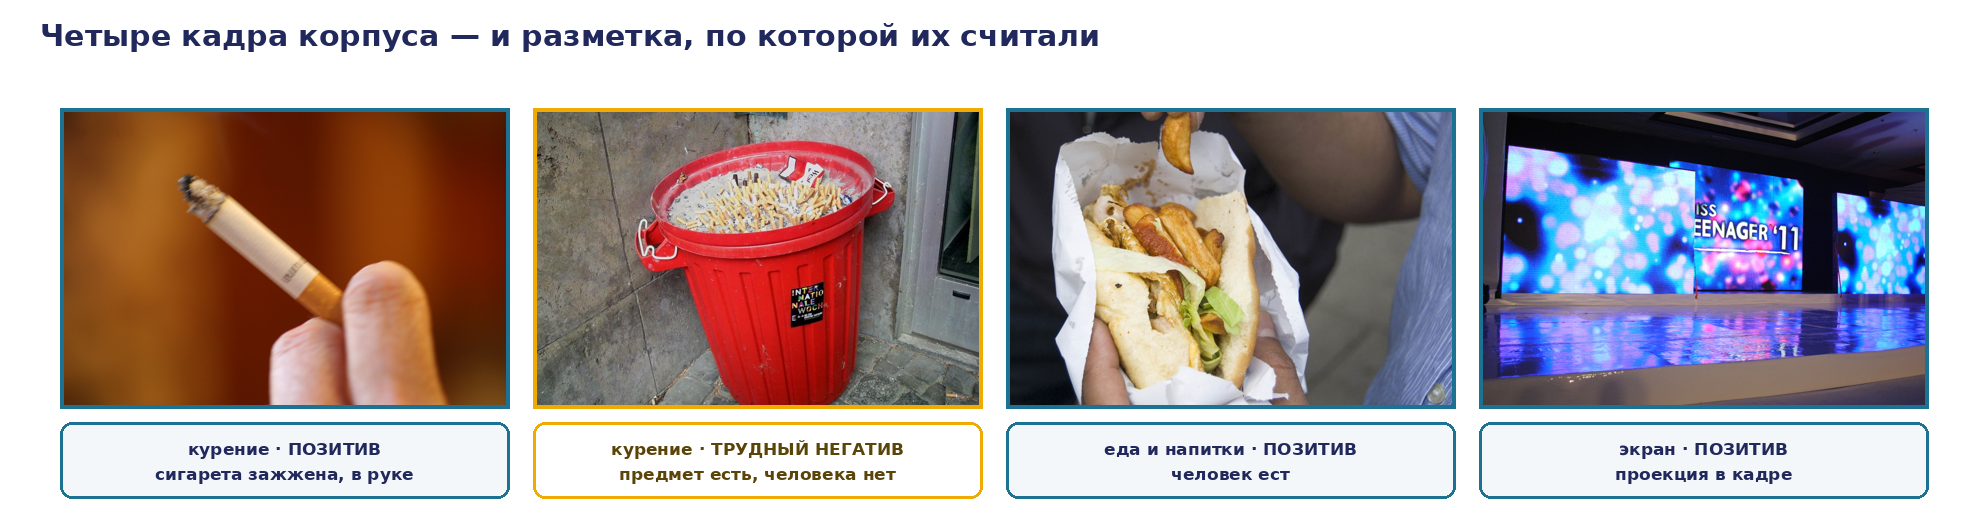
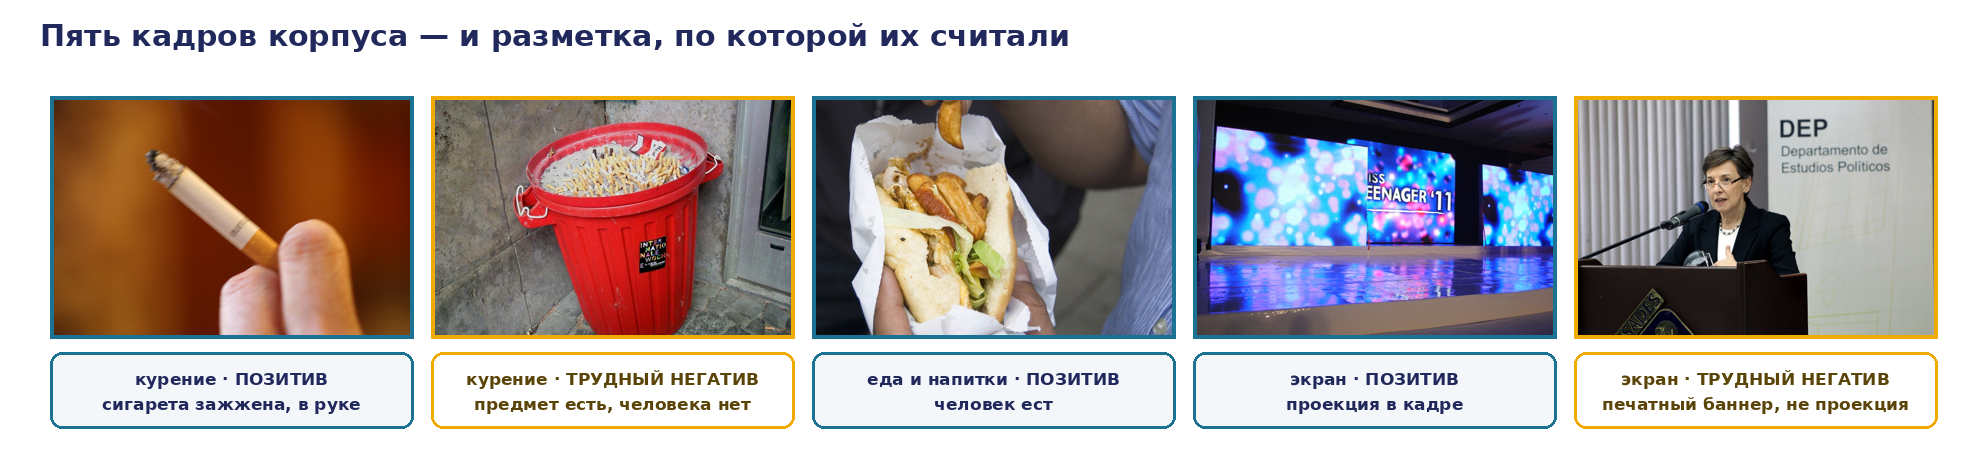
#351 С12 кейс C: числа на замер 327 кадров, вывод перестроен на два случая обмана суммы
Корпус еды и экрана вырос втрое, база сравнения сдвинулась, и одна находка
потребовала переписать вывод, а не ячейку.

**Вывод кейса перестроен (n47, n53).** У суммы ошибок теперь ДВА независимых
случая, и прячут они разное:
- курение — КАКАЯ это ошибка: 17+1=18 против 25, сумма за сравнение, но 17
  пропусков невозвратны;
- еда — РАБОТАЕТ ЛИ метод: 20+0=20 против 39, перевес вдвое, и при этом
  не найдено больше половины запрещённых кадров.
Один случай читался бы как особенность класса, два — как свойство меры.

**n47: колонка сравнения переведена на СВОЙ порог** (0,01/0,01/0,03). Прежняя
«@0,3» была заглушкой на месте пробела замера — раздельные доли на лучшем
пороге посчитаны теперь для всех трёх классов, пробел закрыт.

**n46: корпус 134/129/117, доли 30,6/29,5/41,0.** Вырожденный режим перечитан:
«всегда нет» даёт 69,4/70,5/59,0% верных ответов — на прежнем малом корпусе еды
та же пустота давала 88%. Фигура — пять панелей вместо четырёх: добавлен второй
трудный негатив, печатный баннер, принятый за проекцию. Два трудных негатива
стоят рядом намеренно — один ломает определение нехваткой, другой похожестью.

**n48:** новые полосы похожести по трём классам; инверсия максимумов на экране
на объёме СНЯЛАСЬ (0,096 > 0,023), и это сказано вслух — наблюдение не пережило
роста выборки, а вывод «сигнала нет» подтвердился и стал прочнее (2 из 48
против 0 у вырожденного «всегда нет»).

**n50:** 57 чужих кадров вместо 22; хэш 18–26 против наших 26 — диапазоны
[…]

diff --git a/library/seminars/sem-12/rendered/make_figures_C.py b/library/seminars/sem-12/rendered/make_figures_C.py
@@ -14,17 +14,35 @@
                                   кейс строит); серым, за контуром —
                                   публикация/отложено до человека.
 
-    case-c-korpus-primery.png     n46 — четыре НАСТОЯЩИХ кадра корпуса со
-                                  своей разметкой: позитив и трудный негатив
-                                  курения, позитив еды, позитив экрана.
+    case-c-korpus-primery.png     n46 — пять НАСТОЯЩИХ кадров корпуса со своей
+                                  разметкой: позитив и трудный негатив курения,
+                                  позитив еды, позитив и трудный негатив экрана.
+                                  Два трудных негатива стоят рядом намеренно:
+                                  они разной природы — у курения предмет есть,
+                                  а человека нет; у экрана предмет похож, а
+                                  класс другой (печать, не проекция).
 
     case-c-vedro-okurkov.png      n41 — тот самый кадр сцены: урна, полная
                                   окурков, без единого человека. Модель
                                   отвечает `smoking: true`.
 
-Снимки — Open Images V7, все четыре под CC BY 2.0, авторы названы ниже в
-`PHOTOS`. Людей, которых можно узнать в лицо, ни на одном из четырёх нет —
-отбор сознательный: занятие публикуется открыто. Подпись автора на кадр НЕ
+Снимки — Open Images V7, все под CC BY 2.0, авторы названы ниже в `PHOTOS`.
+
+**Про лица — решение круга 4, оно сменило прежнее.** Первые четыре кадра
+отбирались так, чтобы на них не было узнаваемых лиц. Трудный негатив экрана
+такого варианта не имеет вовсе: все пять кандидатов `SLIDES_HARDNEG` — это
+печатная поверхность ПОЗАДИ ГОВОРЯЩЕГО, и composition «текст на вертикальной
+поверхности за человеком» и есть то, что путает модель; вырезав человека, мы
+показали бы не тот кадр, который мерили. Взят `1ff27a55871e30db` — взрослый
+докладчик за трибуной на публичном мероприятии, CC BY 2.0. Это согласуется с
+деком занятия: `case-b-light-hard.png` Кейса B давно показывает аудиторию с
+узнаваемыми лицами из того же корпуса.
+
+**Один кандидат исключён отдельно и не по композиции:** `24955fd68bc70264` —
+школьный постер, на котором напечатаны имя, класс и школа автора, а в кадре,
+по всем признакам, несовершеннолетний. Несовершеннолетние исключены из самого
+корпуса (`corpus.py`, `*_MINOR_EXCLUDED`), и на кадр деки такой снимок не идёт
+тем более. Подпись автора на кадр НЕ
 идёт (`trebovaniya-k-soderzhaniyu-forma.md` §5.12 — источники фотографий на
 слайде не подписывать); атрибуция CC BY стоит в заметках слайдов n41/n46,
 которые публикуются вместе с деком.
@@ -54,6 +72,7 @@ PHOTOS = {
     "193d76cd49bb8a7c": ("C-smoking", "Erich Ferdinand", "CC BY 2.0"),
     "159de001bfb786cc": ("C-fooddrink", "Cristiano Betta", "CC BY 2.0"),
     "0cd992ac5ca38878": ("C-slides", "Josué Goge", "CC BY 2.0"),
+    "1ff27a55871e30db": ("C-slides", "Alexander Bonilla", "CC BY 2.0"),
 }
 
 
@@ -101,15 +120,17 @@ def case_c_korpus_primery():
     """n46 — корпус предъявлен кадрами, а не только числом. Четыре настоящих
     снимка среза Open Images V7 с той разметкой, по которой их считали.
 
-    Второй панелью стоит трудный негатив курения — предмет в кадре есть,
-    человека нет. Определение у1' такой кадр исключает, и ровно на таких
-    кадрах мультимодальная модель даёт 24 из своих 25 ложных тревог."""
-    im = Image.new("RGB", (1988, 520), W)
+    Два трудных негатива стоят рядом намеренно, и они разной природы.
+    У курения (панель 2) предмет есть, а человека нет — определение у1' такой
+    кадр исключает, и на таких кадрах модель даёт 24 из своих 25 ложных тревог.
+    У экрана (панель 5) предмет похож, а класс другой: печатный баннер, не
+    проекция — на пяти таких кадрах модель ошибается в четырёх."""
+    im = Image.new("RGB", (1988, 470), W)
     d = ImageDraw.Draw(im)
-    head(d, "Четыре кадра корпуса — и разметка, по которой их считали", sz=30)
+    head(d, "Пять кадров корпуса — и разметка, по которой их считали", sz=30)
 
-    pw, ph = 449, 300
-    gy, gap, x0 = 108, 24, 60
+    pw, ph = 363, 242
+    gy, gap, x0 = 96, 18, 50
     panels = [
         ("2f75c267eaae09c1", LIGHT, SURF, DEEP,
          ["курение · ПОЗИТИВ", "сигарета зажжена, в руке"]),
@@ -119,6 +140,8 @@ def case_c_korpus_primery():
          ["еда и напитки · ПОЗИТИВ", "человек ест"]),
         ("0cd992ac5ca38878", LIGHT, SURF, DEEP,
          ["экран · ПОЗИТИВ", "проекция в кадре"]),
+        ("1ff27a55871e30db", GOLD, W, GOLDINK,
+         ["экран · ТРУДНЫЙ НЕГАТИВ", "печатный баннер, не проекция"]),
     ]
     for n, (pid, frame, fill, tc, caption) in enumerate(panels):
         x = x0 + n * (pw + gap)

diff --git a/library/seminars/sem-12/slides/n47-svod-zamera.md b/library/seminars/sem-12/slides/n47-svod-zamera.md
@@ -2,14 +2,14 @@
 id: n47
 type: measured_outcome_table
 duration_min: 2.0
-assertion: "Две меры раздельно: сколько запрещённых кадров метод поймал и сколько чистых пометил зря"
-learning_goal: "С2 такт 2. Правка владельца круга 3: метрики РАЗВЕДЕНЫ на две таблицы, у всех методов одни единицы (кадры), база класса стоит в заголовке строки. Сумма ошибок не считается нигде — плашка показывает, почему она выбирает не тот инструмент."
+assertion: "Две меры раздельно — и два разных способа, которыми их сумма обманывает: на курении прячет цену ошибки, на еде прячет отсутствие работы"
+learning_goal: "С2 такт 2. Метрики разведены на две таблицы, у всех методов одни единицы (кадры), база класса в заголовке строки. Круг 4: сравнение показано на СВОЁМ пороге (0,01/0,01/0,03) — раздельные доли появились в замере, прежняя колонка «@0,3» была заглушкой на месте пробела. Вывод перестроен: у суммы ошибок теперь ДВА независимых случая обмана, на курении и на еде, и прячут они разное."
 visual:
   pattern: measured_outcome_table
   primary: >
-    Строка-мера, две таблицы в одних единицах (пойманные позитивы и
-    ложные тревоги, база класса в заголовке строки), плашка асимметрии
-    цены.
+    Две таблицы в одних единицах (пойманные позитивы и ложные тревоги,
+    база класса в заголовке строки), плашка про чтение нулей, плашка с
+    двумя случаями обмана суммы.
   backup: >
     Все числа — stend/zamery-C/README.md и raw/analyze_output.txt
     (tp/fn/fp по трём классам). Разложение лучшего порога на курении —
@@ -24,30 +24,34 @@ visual:
 
 ## Visual
 
-| Поймано запрещённых — из позитивов | Детектор | Мультимодальная | Сравнение, порог 0,3 |
+| Поймано запрещённых — из позитивов | Детектор | Мультимодальная | Сравнение, свой порог |
 |---|---|---|---|
-| Курение · 41 | **0** | 41 | 5 |
-| Еда и напитки · 9 | 5 | 9 | 0 |
-| Экран · 22 | 8 | 21 | 0 |
+| Курение · 41 | **0** | 41 | 24 |
+| Еда и напитки · 38 | 27 | 38 | 18 |
+| Экран · 48 | 16 | 46 | **2** |
 
-| Помечено зря — из негативов | Детектор | Мультимодальная | Сравнение, порог 0,3 |
+| Помечено зря — из негативов | Детектор | Мультимодальная | Сравнение, свой порог |
 |---|---|---|---|
-| Курение · 93 | 0 | 25 (26,9%) | 0 |
-| Еда и напитки · 65 | 27 (41,5%) | 18 (27,7%) | 0 |
-| Экран · 60 | 18 (30,0%) | 29 (48,3%) | 0 |
+| Курение · 93 | 0 | 25 (26,9%) | 1 (1,1%) |
+| Еда и напитки · 91 | 30 (33,0%) | 39 (42,9%) | 0 |
+| Экран · 69 | 20 (29,0%) | 36 (52,2%) | 0 |
 
-> **Нули последнего столбца в обеих таблицах — одно и то же событие.** При пороге 0,3 сравнение почти ничего не находит, оттого у него и нет тревог. Молчащий метод тревог не поднимает никогда.
+> **Нули справа читаются только с левой таблицей:** сравнение не тревожит потому, что не находит — 2 из 48 на экране.
 
-> **Две меры не складывают.** Курение, лучший порог: у сравнения 17 пропусков + 1 тревога = 18 ошибок, у мультимодальной 25. По сумме выигрывает сравнение. **17 пропусков невозвратны** — кадры уйдут в публикацию; **25 тревог поправимы** — 25 минут человека.
+> **Сумма ошибок прячет две разные вещи и оба раза выбирает не тот инструмент.**
+> **Курение — какая это ошибка.** У сравнения 17 + 1 = **18** против **25**. Сумма за сравнение, но 17 пропусков невозвратны, а 25 тревог — минуты человека.
+> **Еда — работает ли метод.** У сравнения 20 + 0 = **20** против **39**: перевес вдвое, и при этом 20 пропущенных из 38.
 
 ## Speaker notes
 
-Две меры разведены намеренно, и читать их стоит порознь. Левая таблица отвечает, сколько запрещённых кадров метод нашёл; правая — сколько чистых он пометил зря. Единицы у обеих одни, кадры, и база класса стоит рядом в заголовке строки, чтобы число не висело без знаменателя.
+Две меры разведены намеренно, и читать их стоит порознь. Левая таблица отвечает, сколько запрещённых кадров подход нашёл; правая — сколько чистых он пометил зря. Единица одна, кадры, и база класса стоит рядом в заголовке строки.
 
-Детектор берёт пять из девяти кадров еды, восемь из двадцати двух с экраном и ровно ноль из сорока одного с курением. Ноль здесь особого рода: в словаре из восьмидесяти бытовых классов понятия «сигарета» нет, и значит он повторится на вдвое большем корпусе и при любом пороге. Зато там, где класс в словаре есть, детектор не стоит ничего — и на еде даёт двадцать семь ложных тревог из шестидесяти пяти, то есть платит за дешевизну точностью.
+Сравнение с описанием показано на пороге, померенном на этом же корпусе: одна сотая для курения и еды, три сотых для экрана. На общепринятых порядках оно не находит почти ничего вовсе, и разбор этого — следующим кадром.
 
-Мультимодальная модель не пропускает почти ничего нигде — сорок один из сорока одного, девять из девяти, двадцать один из двадцати двух. Платит она правой таблицей: от двадцати семи до сорока восьми процентов негативов помечены зря, и на экране это почти половина чистых кадров.
+Детектор берёт двадцать семь кадров еды из тридцати восьми, шестнадцать с экраном из сорока восьми и ровно ноль из сорока одного с курением. Ноль здесь особого рода: в словаре из восьмидесяти бытовых классов понятия «сигарета» нет, и значит он повторится на вдвое большем корпусе и при любом пороге. На еде он оказался заметно лучше, чем показывала прежняя малая выборка, — не потому, что модель изменилась, а потому, что девять позитивов давали шумную и слишком мрачную оценку.
 
-Нули сравнения с описанием в обеих таблицах к модели отношения не имеют. Порог 0,3 взят из чужой задачи, и на нём метод отвечает «нет» почти всегда — отсюда и ни одной находки, и ни одной тревоги разом. Ноль детектора на курении устроен иначе: там нет самого класса в словаре, и он повторится при любом пороге. На пороге, померенном на этом корпусе, у сравнения картина другая, и следующий кадр разбирает, почему.
+Мультимодальная модель не пропускает почти ничего нигде и платит правой таблицей: от двадцати семи до пятидесяти двух процентов негативов помечены зря. На экране это больше половины чистых кадров.
 
-Последняя плашка — главная ловушка этого свода. Если сложить обе меры в одно число, сравнение с описанием обыгрывает мультимодальную модель: восемнадцать ошибок против двадцати пяти. Вывод неверный. Все восемнадцать — это семнадцать пропусков, то есть семнадцать запрещённых кадров в публикации, откуда их не вернуть. Все двадцать пять — лишние флаги: кадр полежит, человек посмотрит минуту и снимет флаг. Мера обязана совпадать с ценой ошибки в деле; сумма здесь выбирает инструмент за нас и выбирает неверно.
+Нули сравнения в правой таблице выглядят безупречно и безупречными не являются. На экране метод поднял ноль тревог и нашёл два кадра из сорока восьми — то есть почти не срабатывал вообще. Ложных тревог не бывает у того, кто молчит, и правую таблицу без левой читать нельзя.
+
+Последняя плашка — главное этого свода, и теперь в ней два случая, а не один. На курении сумма ошибок прячет, **какая** это ошибка: восемнадцать против двадцати пяти, сравнение якобы выигрывает, но все восемнадцать — это семнадцать кадров, ушедших в публикацию без возврата, а двадцать пять у мультимодальной модели — просто минуты человека. На еде сумма прячет другое — **работает ли метод вообще**: двадцать против тридцати девяти, перевес вдвое, и при этом сравнение не находит больше половины запрещённых кадров. Одно и то же действие, сложить две ошибки в одно число, дважды привело к неверному выбору, и каждый раз по своей причине. Мера обязана совпадать с ценой ошибки в деле; сумма не совпадает с ней никогда.

diff --git a/library/seminars/sem-12/slides/n48-razbor-siglip.md b/library/seminars/sem-12/slides/n48-razbor-siglip.md
@@ -2,13 +2,13 @@
 id: n48
 type: content
 duration_min: 1.5
-assertion: "На порогах 0,3/0,5/0,7 метод пропускает почти всё; лучший порог на этом корпусе — 0,01–0,03"
+assertion: "На порогах 0,3/0,5/0,7 метод пропускает почти всё; лучший порог на этом корпусе — 0,01–0,03, и на экране даже он не помогает"
 learning_goal: "Полоса неопределённости SigLIP (К4-методика, мерена заново на этом корпусе): порог — решение, а не свойство модели. Экран — результат против предсказания (сигнала почти нет). §8.11: лёгкий и трудный случай курения оказались наоборот."
 visual:
   pattern: content
   primary: >
-    Таблица порогов и пропуска по трём классам. Плашка полосы похожести.
-    Плашка лёгкого/трудного случая наоборот.
+    Таблица порогов, пропуска и полос похожести по трём классам. Плашка
+    про масштаб сигмоидных чисел. Плашка про отсутствие сигнала на экране.
   backup: >
     Числа — stend/zamery-C/README.md «SigLIP на импортированных порогах».
     §8.11 (tools/seminar-production/README.md) — замер, вернувший ноль,
@@ -25,20 +25,22 @@ visual:
 
 | Класс | Пропущено @ 0,3 / 0,5 / 0,7 | Лучший порог здесь | Полоса похожести: позитив / негатив (мин/медиана/макс) |
 |---|---|---|---|
-| Курение | 87,8% / 97,6% / 97,6% | 0,01 | 0,000/0,014/0,756 — 0,000/0,000/0,036 |
-| Еда/напитки | 100% на всех трёх | 0,01 | 0,000/0,002/0,074 — 0,000/0,000/0,000 |
-| Экран | 100% на всех трёх | 0,03 | 0,000/0,000/**0,002** — 0,000/0,000/**0,023** |
+| Курение | 87,8% / 97,6% / 97,6% | 0,01 | 0,000/0,014/0,755 — 0,000/0,000/0,035 |
+| Еда/напитки | 97,4% / 100% / 100% | 0,01 | 0,000/0,010/0,346 — 0,000/0,000/0,001 |
+| Экран | 100% на всех трёх | 0,03 | 0,000/0,000/**0,096** — 0,000/0,000/**0,023** |
 
-> **Экран — результат против предсказания.** Максимум негатива (0,023) выше максимума позитива (0,002): полосы перевёрнуты. Сигнала почти нет, и лучший порог всё равно даёт 22 ошибки из 82 (26,8%).
+> **Порог в сто раз ниже привычного — так устроена сама модель.** `SigLIP` обучен сигмоидной функцией потерь: его числа лежат узкой полосой у нуля, тогда как привычное «уверенно от 0,3» пришло от косинусных сходств `CLIP`-подобных моделей.
 
-> **Лёгкий и трудный случай курения оказались наоборот.** Крупная сигарета в кадре — похожесть **0,18**. Та же сцена на дальнем плане — **0,40**, вдвое выше. Мультимодальная модель отвечает «да» на оба; расходятся только сырые числа похожести.
+> **На экране сигнала почти нет, и лучший порог этого не чинит:** 2 попадания из 48. Вырожденное «всегда нет» даёт 0 из 48 — разница в два кадра на 117.
 
 ## Speaker notes
 
-Сравнение с описанием на любом из трёх общепринятых порогов — 0,3, 0,5, 0,7 — выглядит практически неработающим: на курении пропускает от восьмидесяти восьми до почти ста процентов позитивов, на еде и на экране — сто процентов на всех трёх порогах без исключения. Вывод «модель не годится» был бы поспешным. Лучший порог, померенный на этом же корпусе прямым перебором, — одна сотая для курения и еды, три сотых для экрана, то есть на два порядка ниже любого из трёх общепринятых значений.
+Сравнение с описанием на любом из трёх общепринятых порогов — 0,3, 0,5, 0,7 — выглядит практически неработающим: на курении пропускает от восьмидесяти восьми до почти ста процентов позитивов, на еде девяносто семь и выше, на экране сто процентов на всех трёх без исключения. Вывод «модель не годится» был бы поспешным. Лучший порог, померенный на этом же корпусе прямым перебором, — одна сотая для курения и еды, три сотых для экрана, то есть на два порядка ниже любого из трёх привычных значений.
 
-Класс модель видит; дело в масштабе её сырых чисел. `SigLIP` обучен сигмоидной функцией потерь, и похожести у него лежат узкой полосой у нуля — это другой масштаб, чем у косинусных сходств `CLIP`-подобных моделей, откуда и взята привычка считать уверенным всё, что выше 0,3. Порог, принесённый из другой задачи, где такая интуиция верна, здесь отрезает почти весь класс, а порог, померенный на собственном корпусе, проходит ровно между медианой позитива и максимумом негатива — и то не всегда с запасом.
+Причина в масштабе. `SigLIP` обучен сигмоидной функцией потерь, и его числа похожести лежат узкой полосой у нуля; привычка считать уверенным всё, что выше ноль-три, пришла от косинусных сходств `CLIP`-подобных моделей, где масштаб совсем другой. Порог, перенесённый оттуда, отрезает здесь почти весь класс. Порог — наше решение, и мерить его надо на своих данных, а не наследовать вместе с методом.
 
-На экране это не спасает. Максимум похожести на позитивах — две тысячных, на негативах — двадцать три тысячных: полосы не просто соприкасаются, негатив достигает большего значения, чем любой позитив. Лучший порог всё равно даёт двадцать две ошибки из восьмидесяти двух — сигнала почти нет, и это нужно сказать прямо, а не подбирать более удачный порог, которого в данных не существует.
+Полосы объясняют, где метод работает, а где нет. На курении медиана позитива четырнадцать тысячных, максимум негатива тридцать пять тысячных — порог в одну сотую проходит почти точно между ними, и метод берёт двадцать четыре кадра из сорока одного. На еде разделение ещё чище: максимум негатива одна тысячная против медианы позитива в десять тысячных — поэтому у сравнения на еде ноль ложных тревог. На экране разделения нет вовсе: максимум позитива девяносто шесть тысячных, максимум негатива двадцать три тысячных, полосы почти накрывают друг друга, и лучший порог ловит два кадра из сорока восьми. Вырожденный ответ «нет всегда» даёт ноль из сорока восьми. Разница между измеренным методом и пустым ответом — два кадра на весь корпус из ста семнадцати, и честнее назвать это отсутствием сигнала, чем слабым сигналом.
 
-Отдельная находка — курение дало лёгкий и трудный случай ровно наоборот тому, что ожидалось заранее. Крупная сигарета в кадре, которая должна была быть самым очевидным позитивом, получила похожесть 0,18; та же сцена курения на дальнем плане — 0,40, вдвое выше. Мультимодальная модель на обоих кадрах отвечает «да», то есть на уровне вердикта разницы нет: она живёт только в сырых числах похожести. Наша интуиция о том, что крупному и близкому признаку легче быть узнанным, здесь просто не совпала с тем, что измеряет модель, и назвать это стоит прямо, а не списывать на случайность одной пары примеров.
+Отдельно стоит сказать, что именно здесь изменилось от роста корпуса. На прежнем, втрое меньшем объёме максимум негатива на экране обгонял максимум позитива — полосы выглядели перевёрнутыми, и это называлось находкой. На новом объёме перевёрнутость снялась: у позитива нашёлся хвост в девяносто шесть тысячных, которого малая выборка не содержала. Наблюдение не подтвердилось, а вывод, ради которого оно приводилось, — сигнала нет — подтвердился и стал прочнее. Так и выглядит замер, которому можно верить: часть наблюдений не переживает роста выборки, и это говорится вслух.
+
+Отдельная находка — курение дало лёгкий и трудный случай ровно наоборот ожиданию. Крупная сигарета в кадре получила похожесть 0,18; та же сцена на дальнем плане — 0,40, вдвое выше. Мультимодальная модель отвечает «да» на оба, то есть на уровне вердикта разницы нет. Наша интуиция о том, что крупному и близкому признаку легче быть узнанным, с тем, что измеряет модель, не совпала.

diff --git a/library/seminars/sem-12/slides/n46-struktura-zamera.md b/library/seminars/sem-12/slides/n46-struktura-zamera.md
@@ -2,15 +2,15 @@
 id: n46
 type: test_structure_table
 duration_min: 2.0
-assertion: "Корпус — Open Images V7, три среза по классам владельца: 134, 74 и 82 кадра, доля запрещённых у каждого своя"
+assertion: "Корпус — Open Images V7, три среза по классам владельца: 134, 129 и 117 кадров, доля запрещённых у каждого своя"
 learning_goal: "С2 такт 1: устройство теста до результатов. Правка владельца круга 3 — корпус НАЗВАН (откуда кадры, чья разметка, сколько в них чего) и ПОКАЗАН настоящими кадрами с разметкой. Мера сравнения объявлена следующим кадром, вместе с двумя таблицами. Результатов методов на кадре нет."
 visual:
   pattern: test_structure_table
   figure: case-c-korpus-primery.png
   primary: >
-    Четыре настоящих кадра корпуса с их разметкой (позитив и трудный
-    негатив курения, позитив еды, позитив экрана), таблица трёх срезов
-    числом, плашка про базу и вырожденные режимы.
+    Пять настоящих кадров корпуса с их разметкой (позитив и трудный
+    негатив курения, позитив еды, позитив и трудный негатив экрана),
+    таблица трёх срезов числом, плашка про базу и вырожденный режим.
   backup: >
     Числа — stend/zamery-C/README.md «Корпус — числом, с базой». Отбор и
     курация — corpus.py. Снимки — Open Images V7, CC BY 2.0; авторы
@@ -28,21 +28,21 @@ visual:
 | Срез корпуса — Open Images V7, Flickr под CC BY | Позитив | Негатив | Всего | Доля позитива |
 |---|---|---|---|---|
 | Курение | 41 | 93 | 134 | **30,6%** |
-| Еда и напитки | 9 | 65 | 74 | **12,2%** |
-| Экран, ступень 1 | 22 | 60 | 82 | **26,8%** |
+| Еда и напитки | 38 | 91 | 129 | **29,5%** |
+| Экран, ступень 1 | 48 | 69 | 117 | **41,0%** |
 
-> Доля позитива — база сравнения: «всегда да» тревожит на 100% негатива, «всегда нет» пропускает 100% позитива. Разметку набора перепроверили глазами по определениям владельца.
+> Доля позитива — база сравнения, и у каждого класса она своя. «Всегда нет» не находит ничего и при этом даёт 69,4% · 70,5% · 59,0% верных ответов: чем реже запрещённый кадр, тем внушительнее звучит эта пустая цифра.
 
 ## Speaker notes
 
-Прежде чем сравнивать методы, стоит увидеть, на чём их сравнивают. Кадры взяты из Open Images V7 — открытого набора фотографий Flickr под лицензией CC BY, размеченных людьми. Срезов три, по одному на класс владельца, и собирались они по-разному: курение — из двух частей набора с добором до объявленного минимума чистых позитивов, еда и экран — из готовых размеченных пулов. Готовой пометке набора на слово не поверили: каждый спорный кадр открыли и сверили с определением владельца. Несовершеннолетние выброшены из корпуса целиком — один кадр курения и четыре еды.
+Прежде чем сравнивать методы, стоит увидеть, на чём их сравнивают. Кадры взяты из Open Images V7 — открытого набора фотографий Flickr под лицензией CC BY, размеченных людьми. Срезов три, по одному на класс владельца. Два из трёх доведены до объёма этим кругом: еда выросла с семидесяти четырёх кадров до ста двадцати девяти, экран — с восьмидесяти двух до ста семнадцати; курение не трогали, оно и так было за сотней.
 
-Четыре кадра наверху — настоящие, из этих самых срезов, с той разметкой, по которой их считали. Второй стоит отдельно: предмет курения в кадре есть, человека нет. Определение у1′ такой кадр исключает, и дальше видно, что именно на таких кадрах один из методов ошибается почти всегда.
+Добор сделан так, чтобы его можно было повторить: кандидаты отобраны по человеческим пометкам набора, взяты сортировкой по идентификатору — семьдесят кадров еды из ста семидесяти четырёх доступных и тридцать пять кадров экрана из двухсот семнадцати. Подгонки под результат нет, и остаток назван числом, а не словом «ещё есть»: сто четыре кандидата еды и сто восемьдесят два кандидата экрана не просмотрены вовсе. Каждый взятый кадр прошёл курацию глазами по определениям владельца; несовершеннолетние выброшены из корпуса целиком — один кадр курения и семнадцать еды.
 
-Числа срезов разные, и разность существенна. Доля запрещённых кадров — тридцать целых шесть десятых процента на курении, двенадцать целых две десятых на еде, двадцать шесть целых восемь десятых на экране. Эта доля и есть база, с которой сравнивается любой результат: на еде метод, отвечающий «нет» всегда, даёт восемьдесят восемь процентов верных ответов и при этом бесполезен полностью.
+Пять кадров наверху — настоящие, из этих самых срезов. Два из них в золотой рамке, и стоят они рядом намеренно: это **трудные негативы, и они разной природы**. У курения предмет в кадре есть, а человека нет — урна с окурками. У экрана наоборот: человек есть, поверхность с текстом есть, но она печатная — баннер за трибуной, а не проекция. Один кадр ломает определение нехваткой, другой — похожестью.
 
-Мера объявляется здесь, до первой цифры результата, и дальше не меняется. Долю пойманных позитивов и долю ложных тревог считаем раздельно, в одних единицах — кадрах, и для каждого метода рядом стоит база его класса. Сумма этих двух долей не считается нигде в кейсе: цена пропущенного кадра и цена лишнего флага не равны, и сложение делает вид, что равны.
+Числа срезов важны не сами по себе, а тем, как они двигают базу. Доля запрещённых кадров — тридцать целых шесть десятых процента на курении, двадцать девять с половиной на еде, сорок один на экране. Эта доля и есть то, с чем сравнивается любой результат. Пустой ответ «нет» на классе экрана даёт пятьдесят девять процентов верных ответов, на еде — семьдесят с половиной; на прежнем малом корпусе еды та же пустота давала все восемьдесят восемь. Цифра выросла не потому, что метод стал хуже, а потому, что редкий класс перестал быть редким, — и это ровно та ловушка, из-за которой долю позитива называют до результатов, а не после.
+
+Снимки на кадре — `2f75c267eaae09c1` (jenny downing), `193d76cd49bb8a7c` (Erich Ferdinand), `159de001bfb786cc` (Cristiano Betta), `0cd992ac5ca38878` (Josué Goge), `1ff27a55871e30db` (Alexander Bonilla), все под CC BY 2.0.
 
 Классы помечены в материалах замера как у1′ (курение), е1 (еда и напитки) и с1 (экран, ступень 1) — этот код нужен для сверки с корпусом и промтом, на кадр он не идёт.
-
-Снимки на кадре — `2f75c267eaae09c1` (jenny downing), `193d76cd49bb8a7c` (Erich Ferdinand), `159de001bfb786cc` (Cristiano Betta), `0cd992ac5ca38878` (Josué Goge), все под CC BY 2.0.

diff --git a/library/seminars/sem-12/slides/n53-itog-mostik.md b/library/seminars/sem-12/slides/n53-itog-mostik.md
@@ -2,7 +2,7 @@
 id: n53
 type: content
 duration_min: 0.5
-assertion: "Исход кейса решило определение запрещённого, а флаг премодерации сам по себе ещё не ответ"
+assertion: "Исход решило определение запрещённого; а выбранная мера дважды за кейс назвала лучшим тот инструмент, который хуже"
 learning_goal: "Итог кейса (С10): сквозная мысль — определение решает. Мост к Кейсу D: та же библиотека сличения становится опорой для поиска, когда вопрос меняется с «запрещено ли» на «находится ли»."
 visual:
   pattern: content
@@ -10,7 +10,7 @@ visual:
     Короткий итог одной мыслью + мостик вперёд к Кейсу D.
 ---
 
-# Итог кейса: определение решает раньше инструмента
+# Итог кейса: раньше инструмента решают определение и мера
 
 ## Assertion
 
@@ -20,14 +20,18 @@ visual:
 
 > Урна с окурками открыла кейс числом **24 из 25**. У каждого из четырёх подходов своя цена ошибки и своё место, где рождается отказ.
 
+> **Дважды за один кейс сумма ошибок выбрала не тот инструмент — и прятала разное.** На курении — какая это ошибка: 18 против 25, но 17 кадров уходят невозвратно. На еде — работает ли метод вообще: 20 против 39, и при этом больше половины запрещённых кадров не найдено.
+
 > Дальше в занятии — кейс про то, как по накопленным описаниям и собственным библиотекам курса на самом деле **находят** нужный снимок, а не только помечают его флагом.
 
 ## Speaker notes
 
-Кейс открылся готовым измеренным фактом: модель отвечает «курение: да» на урне с окурками, и таких кадров среди её ложных тревог двадцать четыре из двадцати пяти. Разбор дальше показал, откуда она берётся: определение, записанное и утверждённое владельцем до единого вызова модели, исключает предмет без человека буквально — и модель, формально отвечающая на заданный вопрос верно, промахивается мимо того вопроса, который на самом деле стоит перед бизнесом.
+Кейс открылся готовым измеренным фактом: модель отвечает «курение: да» на урне с окурками, и таких кадров среди её ложных тревог двадцать четыре из двадцати пяти. Разбор показал, откуда это берётся: определение, записанное и утверждённое владельцем до единого вызова модели, исключает предмет без человека буквально — и модель, формально отвечающая верно на свой вопрос, промахивается мимо вопроса бизнеса. То же повторилось на экране в другой форме: печатный баннер за трибуной — поверхность с текстом, но не проекция, и на пяти таких кадрах модель ошиблась в четырёх.
 
-Четыре подхода — словарный детектор, мультимодальная модель по трём определениям, сравнение с текстовым описанием и каскад — закрывают разные случаи, и универсальным победителем не стал ни один. Детектор срабатывает там, где его словарь совпал с задачей, и молчит там, где класса нет вовсе. Мультимодальная модель не пропускает почти ничего и платит ложными тревогами — по три доллара восемьдесят семь центов на тысячу кадров и по две и две десятых секунды на кадр сверху. Сравнение с описанием бесплатно и работает, но только на пороге, померенном на своём же корпусе. И отдельная ступень — сличение с собственной библиотекой слайдов — показала, что хэш и вектор расходятся заметно именно там, где утечка искажает кадр сильнее всего, а порог отказа при сличении остаётся решением человека, а не арифметикой расстояния.
+Четыре подхода — словарный детектор, мультимодальная модель по трём определениям, сравнение с текстовым описанием и каскад — закрывают разные случаи, и универсальным победителем не стал ни один. Детектор срабатывает там, где его словарь совпал с задачей, и молчит там, где класса нет вовсе. Мультимодальная модель не пропускает почти ничего и платит ложными тревогами — по три доллара восемьдесят шесть центов на тысячу кадров и по две и две десятых секунды на кадр сверху. Сравнение с описанием бесплатно и работает, но только на пороге, померенном на своём же корпусе, а на экране не работает и на нём.
+
+Но унести из кейса стоит не рейтинг инструментов, а две вещи, которые решают раньше любого из них. Первая — определение: от одного слова в нём меняется вердикт на тот же самый ответ модели. Вторая — мера, и за сегодняшний кейс она ошиблась дважды. На курении сумма ошибок назвала лучшим бесплатный метод, у которого все ошибки — невозвратные пропуски. На еде та же сумма назвала его лучшим с перевесом вдвое, при том что он не находит больше половины запрещённых кадров. Два разных класса, два разных способа обмануться, одно и то же действие: сложить два вида ошибки в одно число, как будто они равны.
 
 Стоит запомнить и то, где у каждого подхода рождался отказ: у детектора в словаре, у мультимодальной модели в чтении определения, у сравнения с описанием в пороге, у каскада на первой ступени. Три из этих четырёх мест выбираем мы, а не поставщик модели.
 
-Право снять кадр с публикации окончательно не передаётся ни одному из этих методов: флаг только откладывает решение на проверку человеком. Это кейс про то, чем описать, есть ли на фотографии то, чего там быть не должно. Дальше в занятии — кейс про то, находится ли нужный снимок по тому, что о нём уже записано, и там в дело вступает именно та же собственная библиотека курса, которую сегодня использовала ступень сличения.
+Право снять кадр с публикации окончательно не передаётся ни одному из методов: флаг только откладывает решение на проверку человеком. Дальше в занятии — кейс про то, находится ли нужный снимок по тому, что о нём уже записано, и там в дело вступает та же собственная библиотека курса, которую сегодня использовала ступень сличения.

diff --git a/library/seminars/sem-12/slides/n50-chuzhie-kadry.md b/library/seminars/sem-12/slides/n50-chuzhie-kadry.md
@@ -11,7 +11,7 @@ visual:
     Строка про NeuralHash.
   backup: >
     Числа — stend/zamery-C/README.md «Чужие кадры — главное число
-    ступени». NeuralHash — GitHub «Working Collision?» (август 2021),
+    ступени» (круг 4: 57 чужих кадров вместо 22). NeuralHash — GitHub «Working Collision?» (август 2021),
     arXiv 2111.06628, выпуск отложен (сентябрь 2021).
 ---
 
@@ -19,19 +19,19 @@ visual:
 
 ## Assertion
 
-22 чужих слайда не должны сличиться с нашей библиотекой вовсе — а хэш находит им «соседа» на том же расстоянии, что у наших собственных кадров на тяжёлом искажении.
+57 чужих слайдов не должны сличиться с нашей библиотекой вовсе — а хэш находит им «соседа» ровно на том же расстоянии, что у наших собственных кадров на тяжёлом искажении.
 
 ## Visual
 
-> **Хэш.** Чужие кадры — расстояние до «соседа» 18–24. Наш же запрос до своего ПОДЛИННОГО оригинала на тяжёлом искажении — до 26. **Перекрытие полное.**
-> **Вектор.** Чужие кадры — похожесть 0,433–0,679 (медиана 0,563). Настоящие совпадения — 0,823–0,998 (медиана 0,915). Зазор узкий — **+0,144** — но диапазоны не перекрываются.
+> **Хэш.** 57 чужих кадров — расстояние до «соседа» **18–26** (медиана 22). Наш же запрос до своего ПОДЛИННОГО оригинала на тяжёлом искажении — тоже **до 26**. Диапазоны сошлись ровно.
+> **Вектор.** Чужие кадры — похожесть 0,392–0,679 (медиана 0,562). Настоящие совпадения — 0,822–0,998 (медиана 0,915). Зазор **0,1435** — на втрое большей выборке чужих он не сузился.
 
 ## Speaker notes
 
 У любого запроса — настоящего или чужого — ближайший кадр в библиотеке находится всегда, потому что так устроен сам поиск: минимум расстояния или максимум похожести существует для любого входа. Вопрос не «нашёлся ли сосед», а «похож ли он достаточно, чтобы считать совпадением», и ответ на него — отдельное инженерное решение, порог отказа, а не свойство самого расстояния.
 
-У хэша это решение принять не из чего. Двадцать два чужих слайда из Open Images находят себе «соседа» в нашей библиотеке на расстоянии от восемнадцати до двадцати четырёх — и ровно это же расстояние, до двадцати шести, получает наш собственный запрос до своего подлинного оригинала, если искажение было тяжёлым — снимок со снимка. Диапазоны перекрываются полностью: порога, который отделил бы чужой кадр от нашего же, сильно испорченного, просто нет. У вектора дело лучше: похожесть чужих кадров лежит в диапазоне от сорока трёх до шестидесяти восьми сотых, похожесть настоящих совпадений — от восьмидесяти двух до почти ста сотых. Диапазоны здесь не перекрываются, но зазор между ними — всего четырнадцать сотых: узкая полоса, и называть её пропастью было бы неправдой.
+У хэша это решение принять не из чего. Пятьдесят семь чужих слайдов из Open Images находят себе «соседа» в нашей библиотеке на расстоянии от восемнадцати до двадцати шести — и ровно двадцать шесть получает наш собственный запрос до своего подлинного оригинала, если искажение было тяжёлым, снимок со снимка. На прежней выборке из двадцати двух чужих кадров верхняя граница была двадцать четыре, и можно было сказать «близко»; на пятидесяти семи нашёлся чужой кадр, стоящий ровно на том же расстоянии, что и наш собственный изуродованный. Диапазоны перекрываются полностью: порога, который отделил бы чужой кадр от нашего же, сильно испорченного, просто нет. У вектора дело лучше: похожесть чужих кадров лежит в диапазоне от тридцати девяти до шестидесяти восьми сотых, похожесть настоящих совпадений — от восьмидесяти двух до почти ста сотых. Диапазоны здесь не перекрываются, но зазор между ними — четырнадцать сотых с небольшим: узкая полоса, и называть её пропастью было бы неправдой. Зато про неё теперь известно больше: утроив выборку чужих кадров, мы зазор не сдвинули — будь он артефактом малых чисел, он бы схлопнулся.
 
 Цена этой ошибки уже предъявлена публично. Коллизии перцептивного хэша NeuralHash — найденные исследователями ещё до выпуска функции сличения на устройствах пользователей — были предъявлены публично в августе 2021 и воспроизведены в опубликованной научной работе; выпуск функции в итоге отложили. Механика там та же: две разные картинки сводятся к близкому хэшу. В нашей задаче это означает одно: ложное сличение — ложное обвинение в утечке материалов центра, и порог отказа для такого вердикта называет человек, а не арифметика расстояния.
 
-Практический вывод для инженера прост и неприятен. Порог отказа нельзя унаследовать вместе с методом: у хэша он не существует в принципе, потому что диапазоны чужого и своего перекрыты, а у вектора он есть, но зазор в четырнадцать сотых узкий, и держится он на этом корпусе из двухсот тридцати девяти слайдов трёх занятий. Сменится библиотека, сменится тип искажения — зазор надо мерить заново. Ставить порог по памяти от прошлой задачи здесь стоит ровно столько же, сколько это стоило сравнению с описанием двумя кадрами раньше.
+Практический вывод для инженера прост и неприятен. Порог отказа нельзя унаследовать вместе с методом: у хэша он не существует в принципе, потому что диапазоны чужого и своего перекрыты, а у вектора он есть, но зазор узкий, и держится он на этом корпусе из двухсот тридцати девяти слайдов трёх занятий. Сменится библиотека, сменится тип искажения — зазор надо мерить заново. Ставить порог по памяти от прошлой задачи здесь стоит ровно столько же, сколько это стоило сравнению с описанием двумя кадрами раньше.

diff --git a/library/seminars/sem-12/slides/n51-gryaz-istiny.md b/library/seminars/sem-12/slides/n51-gryaz-istiny.md
@@ -21,14 +21,14 @@ visual:
 ## Visual
 
 > **Курение.** Человеческая пометка `Cigarette`, не совпадающая с определением владельца (предмет без человека): **25 из 74 (33,8%)** объединённо; на той части набора, откуда пришёл весь пул, — **20 из 29 (69,0%)**. Спорных — отдельно, не суммой — **7 из 74 (9,5%)**.
-> **Еда и напитки.** Пометка `Eating`, где на самом деле животное, не человек: **5 из 14 (35,7%)**.
+> **Еда и напитки.** Пометка `Eating`/`Drinking`, где на самом деле животное или иное несоответствие: **31 из 69 (44,9%)**. На втрое меньшей порции было 35,7% — доля выросла, значит грязь устойчива.
 
-> Несовершеннолетние исключены из корпуса целиком (курение — 1, еда — 4) — при отборе снимков, а не при замере.
+> Несовершеннолетние исключены из корпуса целиком (курение — 1, еда — 17) — при отборе снимков, а не при замере.
 
 ## Speaker notes
 
 Все числа предыдущих кадров сверялись с разметкой «что на кадре», написанной человеком до единого модельного вызова. Сама эта разметка — тоже человеческая работа, и её перепроверили глазами: готовой пометке на слово не поверили, каждый спорный кадр открывали заново. Результат стоит назвать прямо: из человеческих пометок, подтверждающих класс `Cigarette`, строго не совпадают с определением у1′ — предмет курения без единого человека в кадре — двадцать пять из семидесяти четырёх объединённо, а на той части набора, откуда пришёл весь пул, — двадцать из двадцати девяти, почти семьдесят процентов. Ещё семь кадров из семидесяти четырёх — спорные, и это число названо отдельно, не суммой с первым: это две разные степени уверенности в ошибке, а не один и тот же дефект, удвоенный для эффекта.
 
-На еде и напитках пометка `Eating` в пяти случаях из четырнадцати на самом деле означает животное — мандрила, яка, орикса, тапира, льва, — а не человека, который ест или пьёт, как того требует определение е1. Это не дефект нашего замера, а дефект исходной разметки открытого набора, обнаруженный тем же способом — просмотром глазами. Готовой пометке здесь доверия тоже не было: каждый подозрительный кадр из пула проверили вручную.
+На еде и напитках пометка `Eating` или `Drinking` в тридцати одном случае из шестидесяти девяти на самом деле означает животное — мандрила, яка, орикса, тапира, льва, тигра с куском мяса, панду с бамбуком, — а не человека, который ест или пьёт, как того требует определение е1. На первой, втрое меньшей порции эта доля была тридцать пять процентов с лишним, и её можно было списать на невезение малой выборки. На объёме она выросла до сорока пяти: значит это устойчивое свойство разметки, около двух пятых, а не случайный недобор. Это не дефект нашего замера, а дефект исходной разметки открытого набора, обнаруженный тем же способом — просмотром глазами. Готовой пометке здесь доверия тоже не было: каждый подозрительный кадр из пула проверили вручную.
 
-Эти числа — пол, ниже которого не опустится ни один результат кейса, построенный на этой разметке. Их не нужно воспринимать как повод не доверять замеру вовсе: они называют границу точности самого измерения, а не точности методов, которые на нём сравнивались. Отдельно от точности стоит решение отбора, с числами замера не связанное: несовершеннолетние убраны из корпуса целиком, не только с кадров деки, — один случай на курении и четыре на еде. Исключение сделано письменно и названо в счёте.
+Эти числа — пол, ниже которого не опустится ни один результат кейса, построенный на этой разметке. Их не нужно воспринимать как повод не доверять замеру вовсе: они называют границу точности самого измерения, а не точности методов, которые на нём сравнивались. Отдельно от точности стоит решение отбора, с числами замера не связанное: несовершеннолетние убраны из корпуса целиком, не только с кадров деки, — один случай на курении и семнадцать на еде. Исключение сделано письменно и названо в счёте.

diff --git a/library/seminars/sem-12/slides/n44a-gde-rozhdaetsya-otkaz.md b/library/seminars/sem-12/slides/n44a-gde-rozhdaetsya-otkaz.md
@@ -10,8 +10,8 @@ visual:
     Таблица 4 колонки, 4 строки: подход / что даёт / чем платит / где
     рождается отказ. Плашка про структурный ноль.
   backup: >
-    Цена и задержка мультимодальной модели — raw/vision_results.jsonl,
-    237 вызовов без ошибок. Структурный ноль и полоса похожести —
+    Цена и задержка мультимодальной модели — stend/zamery-C/README.md
+    «Цена и задержка vision», 327 вызовов без ошибок. Структурный ноль и полоса похожести —
     stend/zamery-C/README.md.
 ---
 
@@ -26,7 +26,7 @@ visual:
 | Подход | Что даёт | Чем платит | Где рождается отказ |
 |---|---|---|---|
 | Общий детектор | бесплатно, без сети, повторный прогон даёт тот же ответ | словарь зашит в веса, менять его нечем | **в словаре:** класса «сигарета» в COCO-80 нет вовсе |
-| Мультимодальная модель | читает определение словами, три флага одним вызовом | **$3,87 за тысячу кадров, 2,2 с на кадр** | **в чтении определения:** отвечает на похожий вопрос вместо записанного |
+| Мультимодальная модель | читает определение словами, три флага одним вызовом | **$3,86 за тысячу кадров, 2,2 с на кадр** | **в чтении определения:** отвечает на похожий вопрос вместо записанного |
 | Сравнение с текстовым описанием | бесплатно, локально; новый запрет — новая строка описания | числа похожести лежат узкой полосой у нуля | **в пороге:** взятый из чужой задачи, он срезает класс целиком |
 | Каскад | цена падает кратно на большом архиве | наследует все промахи первой ступени | **на первой ступени:** отсеянный кадр вторая не увидит |
 
@@ -38,7 +38,7 @@ visual:
 
 Отказ детектора живёт в словаре. Восемьдесят классов COCO собирались под бытовые сцены, и сигареты, вейпа или трубки среди них нет. Значит на классе «курение» он даст ноль попаданий — на этом корпусе, на вдвое большем и на любом будущем, при любом пороге уверенности. Такой ноль читается не как «модель слабая», а как «задача вне области определения инструмента», и узнать об этом можно до замера, просто прочитав список классов. Там, где класс в словаре есть — еда, экран, — тот же детектор работает и ничего не стоит.
 
-Отказ мультимодальной модели живёт в чтении определения. Она отвечает на вопрос, который поняла, и это не всегда вопрос, который записан: урна с окурками проходит как курение, потому что модель держит в голове широкое «что-то про курение», а определение владельца говорит про человека или изображение. Цена здесь двойная — и за ошибку, и за сам вызов: по двумстам тридцати семи вызовам замера вышло три доллара восемьдесят семь центов за тысячу кадров при задержке около двух и двух десятых секунды на кадр. На архиве в сто тысяч снимков это триста восемьдесят семь долларов и около шестидесяти часов непрерывных вызовов — число, которое стоит прикинуть до того, как метод выбран.
+Отказ мультимодальной модели живёт в чтении определения. Она отвечает на вопрос, который поняла, и это не всегда вопрос, который записан: урна с окурками проходит как курение, потому что модель держит в голове широкое «что-то про курение», а определение владельца говорит про человека или изображение. Цена здесь двойная — и за ошибку, и за сам вызов: по тремстам двадцати семи вызовам замера вышло три доллара восемьдесят шесть центов за тысячу кадров при задержке около двух и двух десятых секунды на кадр. На прежних двухстах тридцати семи вызовах было три доллара восемьдесят семь — цена и задержка идут на вызов, а не на корпус, поэтому рост корпуса их и не сдвинул. На архиве в сто тысяч снимков это триста восемьдесят шесть долларов и около шестидесяти часов непрерывных вызовов — число, которое стоит прикинуть до того, как метод выбран.
 
 Отказ сравнения с описанием живёт в пороге, и это единственный из четырёх, который целиком наш. Модель выдаёт число; порог назначаем мы, и взятый из чужой задачи он превращает рабочий сигнал в нерабочий.
 

diff --git a/library/seminars/sem-12/slides/n42-vopros.md b/library/seminars/sem-12/slides/n42-vopros.md
@@ -39,4 +39,4 @@ visual:
 
 Каскад — не четвёртая модель, а порядок вызова уже названных трёх: дешёвая ступень отсеивает заведомые негативы, дорогая смотрит только оставшееся.
 
-Заведомо лишнего среди четырёх нет. До разбора стоит прикинуть две вещи: какой подход возьмёте для класса, которого в словаре детектора нет вовсе, и какой — там, где важно само присутствие экрана в кадре. Разбор идёт на настоящем корпусе: сто тридцать четыре кадра курения, семьдесят четыре — еды и напитков, восемьдесят два — с экраном.
+Заведомо лишнего среди четырёх нет. До разбора стоит прикинуть две вещи: какой подход возьмёте для класса, которого в словаре детектора нет вовсе, и какой — там, где важно само присутствие экрана в кадре. Разбор идёт на настоящем корпусе: сто тридцать четыре кадра курения, сто двадцать девять — еды и напитков, сто семнадцать — с экраном.
